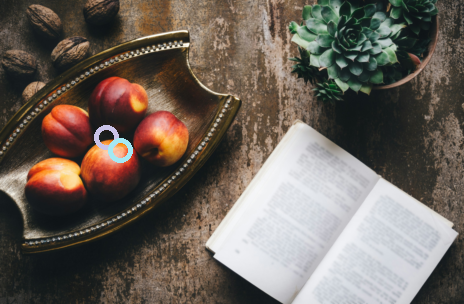
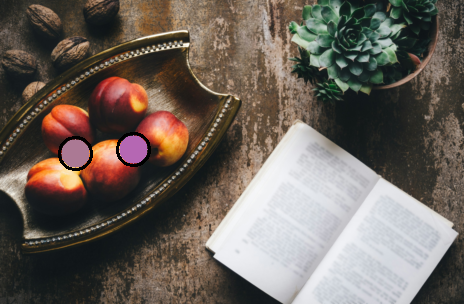
figs

Changed region(s): [[0.1207, 0.4145, 0.3319, 0.5625]]

diff --git a/models/DSM_SAM.py b/models/DSM_SAM.py
@@ -226,7 +226,9 @@ class DSM_SAM():
                 for j, prompt in enumerate(prompts):
                     color = np.random.randint(100, 255, 3)
                     color = tuple([int(c) for c in color])
-                    temp_img = cv2.circle(temp_img, (prompt[0], prompt[1]), 10, color, 3) 
+                    temp_img = cv2.circle(temp_img, (prompt[0], prompt[1]), 14, color, -1)
+
+                    temp_img = cv2.circle(temp_img, (prompt[0], prompt[1]), 16, (0, 0, 0), 2)
                 cv2.imwrite(self.display+f"{id}_sampled_points_{i}_cv2.png", cv2.cvtColor(np.array(temp_img), cv2.COLOR_RGB2BGR))
             
 
@@ -422,7 +424,7 @@ def generate_figure():
     sam = get_sam_model(size="b").to("cuda")
     sam_model = CachedSamPredictor(sam_model = sam, path_to_cache="temp/sam_cache", json_cache="temp/sam_cache.json")
 
-    model = DSM_SAM(dsm_model, sam_model, nms_thr=0.1, area_thr=0.01, target_size=224*2, display="temp_bis/")
+    model = DSM_SAM(dsm_model, sam_model, nms_thr=0.1, area_thr=0.01, target_size=224*2, display="results_diagram/")
 
     sampler = PascalVOCSampler(cfg)
     support_images, _, _, _, _ = sampler()
@@ -439,7 +441,7 @@ def generate_figure():
                                 sample_per_map=2, 
                                 temperature=255*0.07)
     
-    print("Figure saved in temp/")
+    print("Figure saved")
     
 
     
